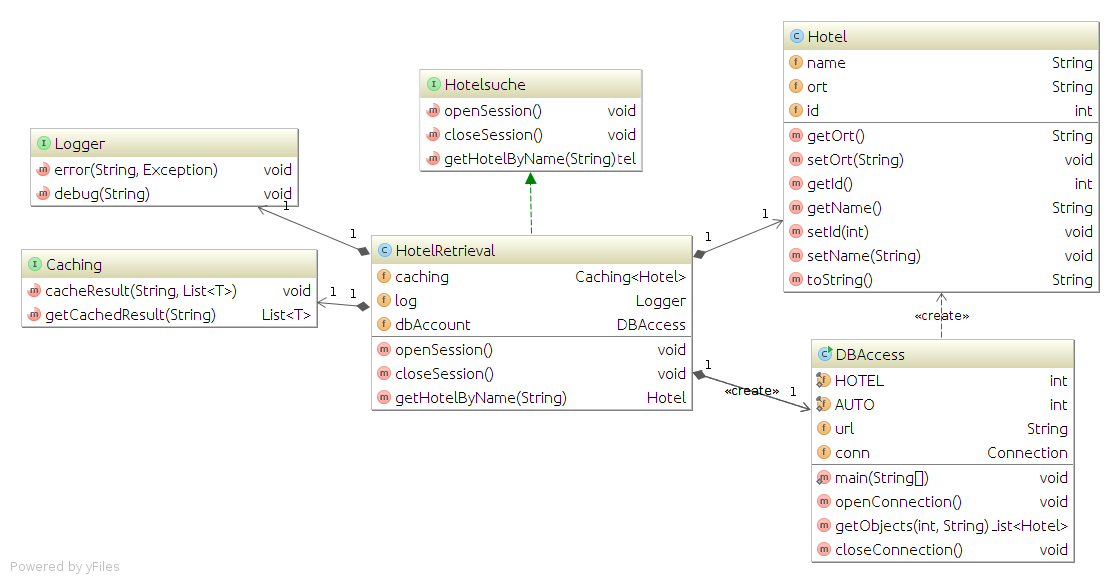
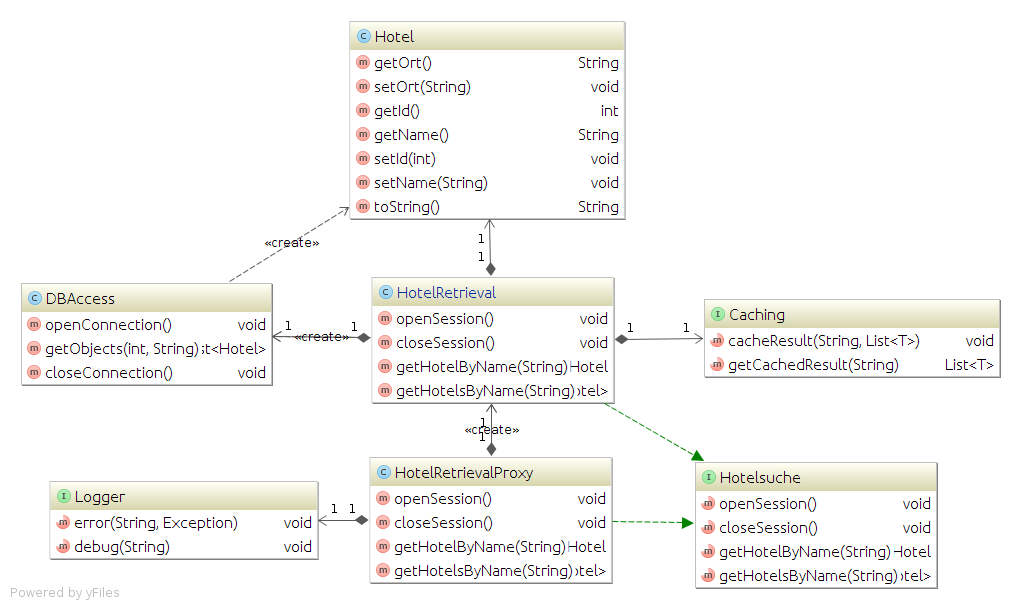
HotelRetrieval Modifikator von public -> default UML aktualisiert

Changed region(s): [[0.0, 0.0309, 1.0, 0.988], [0.0, 0.9571, 0.1214, 0.988]]

diff --git a/BuchungsSystem/src/main/java/org/bonn/ooka/Buchungssystem/HotelRetrieval.java b/BuchungsSystem/src/main/java/org/bonn/ooka/Buchungssystem/HotelRetrieval.java
@@ -9,18 +9,18 @@ import java.util.List;
 /**
  * Created by steve on 05.10.15.
  */
-public class HotelRetrieval implements Hotelsuche {
+class HotelRetrieval implements Hotelsuche {
 
     // Implementation des Cachings mittels "Strategy"-Pattern
     private Caching<Hotel> caching;
 
     private DBAccess dbAccount;
 
-    protected HotelRetrieval() {
+    HotelRetrieval() {
 
     }
 
-    protected HotelRetrieval(Caching<Hotel> caching) {
+    HotelRetrieval(Caching<Hotel> caching) {
         this.caching = caching;
     }
 
@@ -52,9 +52,7 @@ public class HotelRetrieval implements Hotelsuche {
 
     @Override
     public List<Hotel> getHotelsByName(String name) {
-        List<Hotel> result = null;
-
-        result = caching.getCachedResult(name);
+        List<Hotel> result = caching.getCachedResult(name);
 
         if (result == null) {
             result = dbAccount.getObjects(DBAccess.HOTEL, name);
